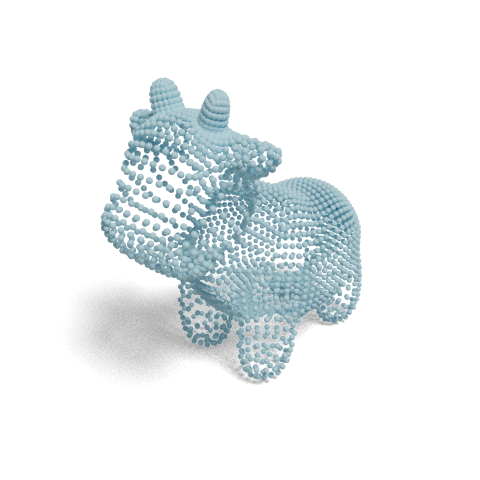
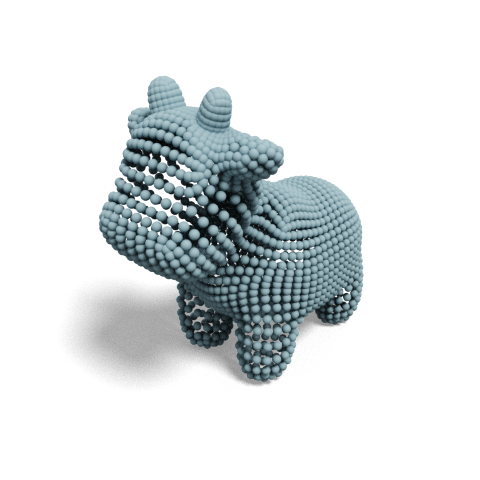
push colored point cloud

Changed region(s): [[0.1875, 0.1562, 0.7812, 0.8125], [0.4375, 0.1562, 0.4688, 0.1875]]

diff --git a/BlenderToolBox/setMat_pointCloud.py b/BlenderToolBox/setMat_pointCloud.py
@@ -14,40 +14,102 @@
 import bpy
 
 def setMat_pointCloud(mesh, \
-                ptColor, \
-                ptSize): 
-    # initialize a primitive sphere
-    bpy.ops.mesh.primitive_uv_sphere_add(radius = 1.0, location = (1e7,1e7,1e7))
-    sphere = bpy.context.object
-    bpy.ops.object.shade_smooth()
-    mat = bpy.data.materials.new(name="sphereMat")
-    sphere.data.materials.append(mat)
-    sphere.active_material = mat
+                meshColor, \
+                ptSize, \
+                AOStrength = 0.0): 
+    # set the material of the point cloud (single color here)
+    mat = bpy.data.materials.new('MeshMaterial')
     mat.use_nodes = True
     tree = mat.node_tree
+
+    # set principled BSDF
+    tree.nodes["Principled BSDF"].inputs['Roughness'].default_value = 0.7
+    tree.nodes["Principled BSDF"].inputs['Sheen Tint'].default_value = 0
+
+    # add Ambient Occlusion
+    tree.nodes.new('ShaderNodeAmbientOcclusion')
+    tree.nodes.new('ShaderNodeGamma')
+    tree.nodes.new('ShaderNodeMixRGB')
+    tree.nodes["Mix"].blend_type = 'MULTIPLY'
+    tree.nodes["Gamma"].inputs["Gamma"].default_value = AOStrength
+    tree.nodes["Ambient Occlusion"].inputs["Distance"].default_value = 10.0
+    tree.nodes["Gamma"].location.x -= 600
+
+    # set color using Hue/Saturation node
     HSVNode = tree.nodes.new('ShaderNodeHueSaturation')
-    HSVNode.inputs['Color'].default_value = ptColor.RGBA
-    HSVNode.inputs['Saturation'].default_value = ptColor.S
-    HSVNode.inputs['Value'].default_value = ptColor.V
-    HSVNode.inputs['Hue'].default_value = ptColor.H
+    HSVNode.inputs['Color'].default_value = meshColor.RGBA
+    HSVNode.inputs['Saturation'].default_value = meshColor.S
+    HSVNode.inputs['Value'].default_value = meshColor.V
+    HSVNode.inputs['Hue'].default_value = meshColor.H
+    HSVNode.location.x -= 200
 
     # set color brightness/contrast
     BCNode = tree.nodes.new('ShaderNodeBrightContrast')
-    BCNode.inputs['Bright'].default_value = ptColor.B
-    BCNode.inputs['Contrast'].default_value = ptColor.C
-    tree.links.new(HSVNode.outputs['Color'], BCNode.inputs['Color'])
-    tree.links.new(BCNode.outputs['Color'], tree.nodes['Principled BSDF'].inputs['Base Color'])
+    BCNode.inputs['Bright'].default_value = meshColor.B
+    BCNode.inputs['Contrast'].default_value = meshColor.C
+    BCNode.location.x -= 400
 
-    # init particle system
-    mesh.modifiers.new("part", type='PARTICLE_SYSTEM')
-    ps = mesh.particle_systems[0]
-    ps.settings.count = len(mesh.data.vertices)
-    ps.settings.frame_start = 0
-    ps.settings.frame_end = 0
-    ps.settings.emit_from = 'VERT'
-    ps.settings.physics_type = 'NO'
-    ps.settings.particle_size = ptSize
-    ps.settings.render_type = 'OBJECT'
-    ps.settings.instance_object = sphere
-    ps.settings.use_emit_random = False
+    # link all the nodes
+    tree.links.new(HSVNode.outputs['Color'], BCNode.inputs['Color'])
+    tree.links.new(BCNode.outputs['Color'], tree.nodes['Ambient Occlusion'].inputs['Color'])
+    tree.links.new(tree.nodes["Ambient Occlusion"].outputs['Color'], tree.nodes['Mix'].inputs['Color1'])
+    tree.links.new(tree.nodes["Ambient Occlusion"].outputs['AO'], tree.nodes['Gamma'].inputs['Color'])
+    tree.links.new(tree.nodes["Gamma"].outputs['Color'], tree.nodes['Mix'].inputs['Color2'])
+    tree.links.new(tree.nodes["Mix"].outputs['Color'], tree.nodes['Principled BSDF'].inputs['Base Color'])
+
+    # turn a mesh into point cloud using geometry node
+    mesh.select_set(True)
+    bpy.context.view_layer.objects.active = mesh
+
+    bpy.ops.object.modifier_add(type='NODES')
+    tree = mesh.modifiers[-1].node_group
+    IN = tree.nodes['Group Input']
+    OUT = tree.nodes['Group Output']
+    MESH2POINT = tree.nodes.new('GeometryNodeMeshToPoints')
+    MESH2POINT.location.x -= 100
+    MESH2POINT.inputs['Radius'].default_value = ptSize
+    MATERIAL = tree.nodes.new('GeometryNodeSetMaterial')
+
+    tree.links.new(IN.outputs['Geometry'], MESH2POINT.inputs['Mesh'])
+    tree.links.new(MESH2POINT.outputs['Points'], MATERIAL.inputs['Geometry'])
+    tree.links.new(MATERIAL.outputs['Geometry'], OUT.inputs['Geometry'])
+
+    # assign the material to point cloud
+    MATERIAL.inputs[2].default_value = mat
+
+
+    # # initialize a primitive sphere
+    # bpy.ops.mesh.primitive_uv_sphere_add(radius = 1.0, location = (1e7,1e7,1e7))
+    # sphere = bpy.context.object
+    # bpy.ops.object.shade_smooth()
+    # mat = bpy.data.materials.new(name="sphereMat")
+    # sphere.data.materials.append(mat)
+    # sphere.active_material = mat
+    # mat.use_nodes = True
+    # tree = mat.node_tree
+    # HSVNode = tree.nodes.new('ShaderNodeHueSaturation')
+    # HSVNode.inputs['Color'].default_value = ptColor.RGBA
+    # HSVNode.inputs['Saturation'].default_value = ptColor.S
+    # HSVNode.inputs['Value'].default_value = ptColor.V
+    # HSVNode.inputs['Hue'].default_value = ptColor.H
+
+    # # set color brightness/contrast
+    # BCNode = tree.nodes.new('ShaderNodeBrightContrast')
+    # BCNode.inputs['Bright'].default_value = ptColor.B
+    # BCNode.inputs['Contrast'].default_value = ptColor.C
+    # tree.links.new(HSVNode.outputs['Color'], BCNode.inputs['Color'])
+    # tree.links.new(BCNode.outputs['Color'], tree.nodes['Principled BSDF'].inputs['Base Color'])
+
+    # # init particle system
+    # mesh.modifiers.new("part", type='PARTICLE_SYSTEM')
+    # ps = mesh.particle_systems[0]
+    # ps.settings.count = len(mesh.data.vertices)
+    # ps.settings.frame_start = 0
+    # ps.settings.frame_end = 0
+    # ps.settings.emit_from = 'VERT'
+    # ps.settings.physics_type = 'NO'
+    # ps.settings.particle_size = ptSize
+    # ps.settings.render_type = 'OBJECT'
+    # ps.settings.instance_object = sphere
+    # ps.settings.use_emit_random = False
 

diff --git a/BlenderToolBox/setMat_pointCloudColored.py b/BlenderToolBox/setMat_pointCloudColored.py
@@ -1,0 +1,61 @@
+# Copyright 2020 Hsueh-Ti Derek Liu
+# 
+# Licensed under the Apache License, Version 2.0 (the "License");
+# you may not use this file except in compliance with the License.
+# You may obtain a copy of the License at
+#
+#    https://www.apache.org/licenses/LICENSE-2.0
+#
+# Unless required by applicable law or agreed to in writing, software
+# distributed under the License is distributed on an "AS IS" BASIS,
+# WITHOUT WARRANTIES OR CONDITIONS OF ANY KIND, either express or implied.
+# See the License for the specific language governing permissions and
+# limitations under the License.
+import bpy
+
+def setMat_pointCloudColored(mesh, meshColor, ptSize): 
+    mat = bpy.data.materials.new('MeshMaterial')
+    mat.use_nodes = True
+    tree = mat.node_tree
+
+    # read vertex attribute
+    tree.nodes.new('ShaderNodeAttribute')
+    tree.nodes[-1].attribute_name = "Col"
+    HSVNode = tree.nodes.new('ShaderNodeHueSaturation')
+    tree.links.new(tree.nodes["Attribute"].outputs['Color'], HSVNode.inputs['Color'])
+    HSVNode.inputs['Saturation'].default_value = meshColor.S
+    HSVNode.inputs['Value'].default_value = meshColor.V
+    HSVNode.inputs['Hue'].default_value = meshColor.H
+    HSVNode.location.x -= 200
+
+    # set color brightness/contrast
+    BCNode = tree.nodes.new('ShaderNodeBrightContrast')
+    BCNode.inputs['Bright'].default_value = meshColor.B
+    BCNode.inputs['Contrast'].default_value = meshColor.C
+    BCNode.location.x -= 400
+
+    # set principled BSDF
+    tree.nodes["Principled BSDF"].inputs['Roughness'].default_value = 1.0
+    tree.nodes["Principled BSDF"].inputs['Sheen Tint'].default_value = 0
+    tree.links.new(HSVNode.outputs['Color'], BCNode.inputs['Color'])
+    tree.links.new(BCNode.outputs['Color'], tree.nodes['Principled BSDF'].inputs['Base Color'])
+
+    # turn a mesh into point cloud using geometry node
+    mesh.select_set(True)
+    bpy.context.view_layer.objects.active = mesh
+
+    bpy.ops.object.modifier_add(type='NODES')
+    tree = mesh.modifiers[-1].node_group
+    IN = tree.nodes['Group Input']
+    OUT = tree.nodes['Group Output']
+    MESH2POINT = tree.nodes.new('GeometryNodeMeshToPoints')
+    MESH2POINT.location.x -= 100
+    MESH2POINT.inputs['Radius'].default_value = ptSize
+    MATERIAL = tree.nodes.new('GeometryNodeSetMaterial')
+
+    tree.links.new(IN.outputs['Geometry'], MESH2POINT.inputs['Mesh'])
+    tree.links.new(MESH2POINT.outputs['Points'], MATERIAL.inputs['Geometry'])
+    tree.links.new(MATERIAL.outputs['Geometry'], OUT.inputs['Geometry'])
+
+    # assign the material to point cloud
+    MATERIAL.inputs[2].default_value = mat

diff --git a/BlenderToolBox/readNumpyPoints.py b/BlenderToolBox/readNumpyPoints.py
@@ -1,0 +1,56 @@
+# Copyright 2020 Hsueh-Ti Derek Liu
+# 
+# Licensed under the Apache License, Version 2.0 (the "License");
+# you may not use this file except in compliance with the License.
+# You may obtain a copy of the License at
+#
+#    https://www.apache.org/licenses/LICENSE-2.0
+#
+# Unless required by applicable law or agreed to in writing, software
+# distributed under the License is distributed on an "AS IS" BASIS,
+# WITHOUT WARRANTIES OR CONDITIONS OF ANY KIND, either express or implied.
+# See the License for the specific language governing permissions and
+# limitations under the License.
+import bpy
+import numpy as np
+
+def readNumpyPoints(P,location,rotation_euler,scale,point_colors=None):
+    """
+    this function creates a blender mesh from numpy array
+
+    Inputs
+    P: |V|x3 array of vertex locations
+    location: (3,) long tuple of mesh locations (same values as UI)
+    rotation: (3,) long tuple of rotation angles (same values as UI)
+    scale: (3,) long tuple of per-axis mesh scaling (same values as UI)
+    point_colors: (optional) |V|x3 list of point colors, each row is a rgb color between [0,1]
+
+    Output
+    mesh_obj a blender object
+    """
+    x = rotation_euler[0] * 1.0 / 180.0 * np.pi 
+    y = rotation_euler[1] * 1.0 / 180.0 * np.pi 
+    z = rotation_euler[2] * 1.0 / 180.0 * np.pi 
+    angle = (x,y,z)
+
+    mesh = bpy.data.meshes.new(name='numpy point cloud')
+    F = [np.arange(P.shape[0])] # the face of a point cloud is a single large polygonal face because blender mesh only support face colors
+    mesh.from_pydata(P,[],F)
+    mesh.update()
+    mesh.validate()
+    mesh_obj = bpy.data.objects.new('numpy point cloud object', mesh)
+    mesh_obj.location = location
+    mesh_obj.rotation_euler = angle
+    mesh_obj.scale = scale
+    bpy.context.scene.collection.objects.link(mesh_obj)
+    bpy.context.view_layer.update()
+
+    if point_colors is not None: # if specified vertex colors
+        # Note: blender use name to reference an object, so I use "Col" here. If we change to another name, we will need to change other parts in the toolbox
+        color_layer = mesh.vertex_colors.new(name='Col') 
+        if P.shape[0] != point_colors.shape[0]:
+            raise ValueError('Error in "readNumpyPoints": point colors must have the same length as the number of points')
+        for vIdx in range(P.shape[0]):
+            # blender use per-corner color so we loop over each face one-by-one
+            color_layer.data[vIdx].color = (point_colors[vIdx,0],point_colors[vIdx,1],point_colors[vIdx,2], 1.0)
+    return mesh_obj 

diff --git a/demos/demo_pointCloudColored.py b/demos/demo_pointCloudColored.py
@@ -1,0 +1,55 @@
+import sys
+sys.path.append('/Users/hsuehtil/Dropbox/BlenderToolbox/') # change this to your path to “path/to/BlenderToolbox/
+import BlenderToolBox as bt
+import os, bpy, bmesh
+import numpy as np
+cwd = os.getcwd()
+
+outputPath = os.path.join(cwd, './demo_pointCloudColored.png') # make it abs path for windows
+
+## initialize blender
+imgRes_x = 480 
+imgRes_y = 480 
+numSamples = 100 
+exposure = 1.5 
+bt.blenderInit(imgRes_x, imgRes_y, numSamples, exposure)
+
+## read mesh 
+location = (0,0,0.67)
+rotation = (0,0,0) 
+scale = (.5,.5,.5)
+P = np.array([[1,1,1],[-1,1,-1],[-1,-1,1],[1,-1,-1]], dtype=np.float32) # point location
+PC = np.array([[0.8,0,0],[0,0.8,0],[0,0,0.8],[.8,.8,.8]]) # point colors
+mesh = bt.readNumpyPoints(P,location,rotation,scale,PC)
+
+## set material ptColor = (vertex_RGBA, H, S, V, Bright, Contrast)
+ptColor = bt.colorObj([], 0.5, 1.0, 1.0, 0.0, 0.0)
+ptSize = 0.3
+bt.setMat_pointCloudColored(mesh, ptColor, ptSize)
+
+## set invisible plane (shadow catcher)
+bt.invisibleGround(shadowBrightness=0.9)
+
+## set camera (recommend to change mesh instead of camera, unless you want to adjust the Elevation)
+camLocation = (3, 0, 2)
+lookAtLocation = (0,0,0.5)
+focalLength = 45 # (UI: click camera > Object Data > Focal Length)
+cam = bt.setCamera(camLocation, lookAtLocation, focalLength)
+
+## set light
+lightAngle = (6, -30, -155) 
+strength = 2
+shadowSoftness = 0.3
+sun = bt.setLight_sun(lightAngle, strength, shadowSoftness)
+
+## set ambient light
+bt.setLight_ambient(color=(0.1,0.1,0.1,1)) 
+
+## set gray shadow to completely white with a threshold 
+bt.shadowThreshold(alphaThreshold = 0.05, interpolationMode = 'CARDINAL')
+
+## save blender file so that you can adjust parameters in the UI
+bpy.ops.wm.save_mainfile(filepath=os.getcwd() + '/test.blend')
+
+## save rendering
+bt.renderImage(outputPath, cam)

diff --git a/demos/demo_numpyPointCloud.py b/demos/demo_numpyPointCloud.py
@@ -1,0 +1,54 @@
+import sys
+sys.path.append('/Users/hsuehtil/Dropbox/BlenderToolbox/') # change this to your path to “path/to/BlenderToolbox/
+import BlenderToolBox as bt
+import os, bpy, bmesh
+import numpy as np
+cwd = os.getcwd()
+
+outputPath = os.path.join(cwd, './demo_numpyPointCloud.png') # make it abs path for windows
+
+## initialize blender
+imgRes_x = 480 
+imgRes_y = 480 
+numSamples = 100 
+exposure = 1.5 
+bt.blenderInit(imgRes_x, imgRes_y, numSamples, exposure)
+
+## read mesh from numpy array
+location = (0,0,0.67) 
+rotation = (0,0,0) 
+scale = (.5,.5,.5)
+P = np.array([[1,1,1],[-1,1,-1],[-1,-1,1],[1,-1,-1]], dtype=np.float32) # point list
+mesh = bt.readNumpyPoints(P,location,rotation,scale)
+
+# # set material 
+ptColor = bt.colorObj(bt.derekBlue, 0.5, 1.3, 1.0, 0.0, 0.0)
+ptSize = 0.3
+bt.setMat_pointCloud(mesh, ptColor, ptSize)
+
+## set invisible plane (shadow catcher)
+bt.invisibleGround(shadowBrightness=0.9)
+
+## set camera (recommend to change mesh instead of camera, unless you want to adjust the Elevation)
+camLocation = (3, 0, 2)
+lookAtLocation = (0,0,0.5)
+focalLength = 45 # (UI: click camera > Object Data > Focal Length)
+cam = bt.setCamera(camLocation, lookAtLocation, focalLength)
+
+## set light
+lightAngle = (6, -30, -155) 
+strength = 2
+shadowSoftness = 0.3
+sun = bt.setLight_sun(lightAngle, strength, shadowSoftness)
+
+## set ambient light
+bt.setLight_ambient(color=(0.1,0.1,0.1,1)) 
+
+## set gray shadow to completely white with a threshold 
+bt.shadowThreshold(alphaThreshold = 0.05, interpolationMode = 'CARDINAL')
+
+## save blender file so that you can adjust parameters in the UI
+bpy.ops.wm.save_mainfile(filepath=os.getcwd() + '/test.blend')
+
+## save rendering
+bt.renderImage(outputPath, cam)

diff --git a/BlenderToolBox/__init__.py b/BlenderToolBox/__init__.py
@@ -19,6 +19,7 @@ from . loadShader import loadShader
 from . readImagePlane import readImagePlane
 from . readMesh import readMesh
 from . readNumpyMesh import readNumpyMesh
+from . readNumpyPoints import readNumpyPoints
 from . readOBJ import readOBJ
 from . readPLY import readPLY
 from . renderImage import renderImage
@@ -37,6 +38,7 @@ from . setMat_amber import setMat_amber
 from . setMat_balloon import setMat_balloon
 from . setMat_carPaint import setMat_carPaint
 from . setMat_chrome import setMat_chrome
+from . setMat_pointCloudColored import setMat_pointCloudColored
 from . setMat_crackedCeramic import setMat_crackedCeramic
 from . setMat_ceramic import setMat_ceramic
 from . setMat_edge import setMat_edge
